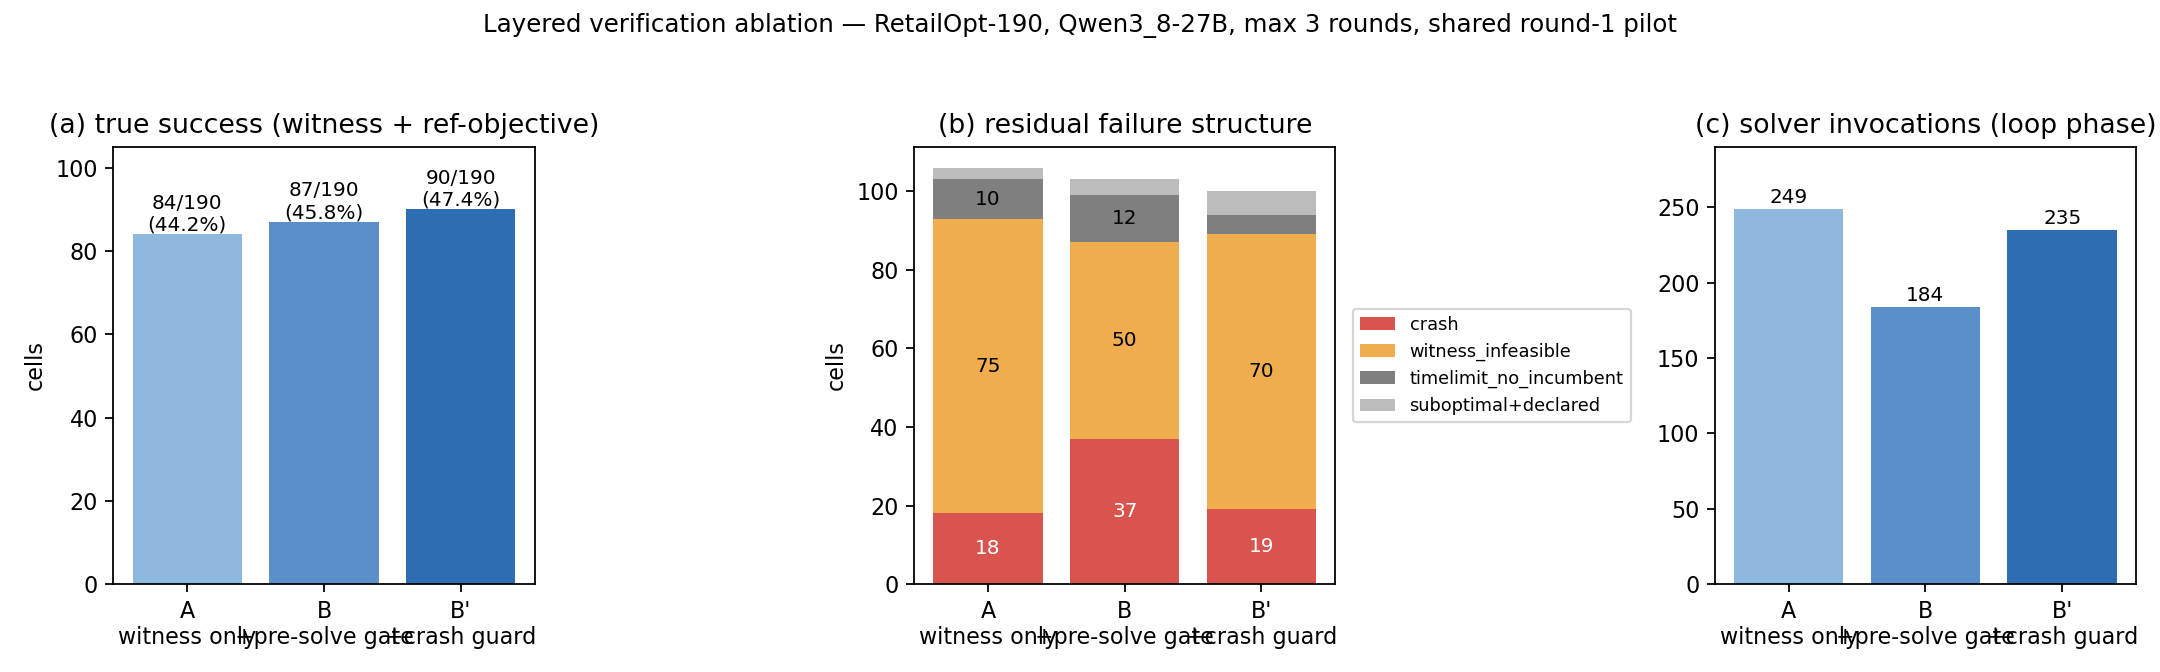
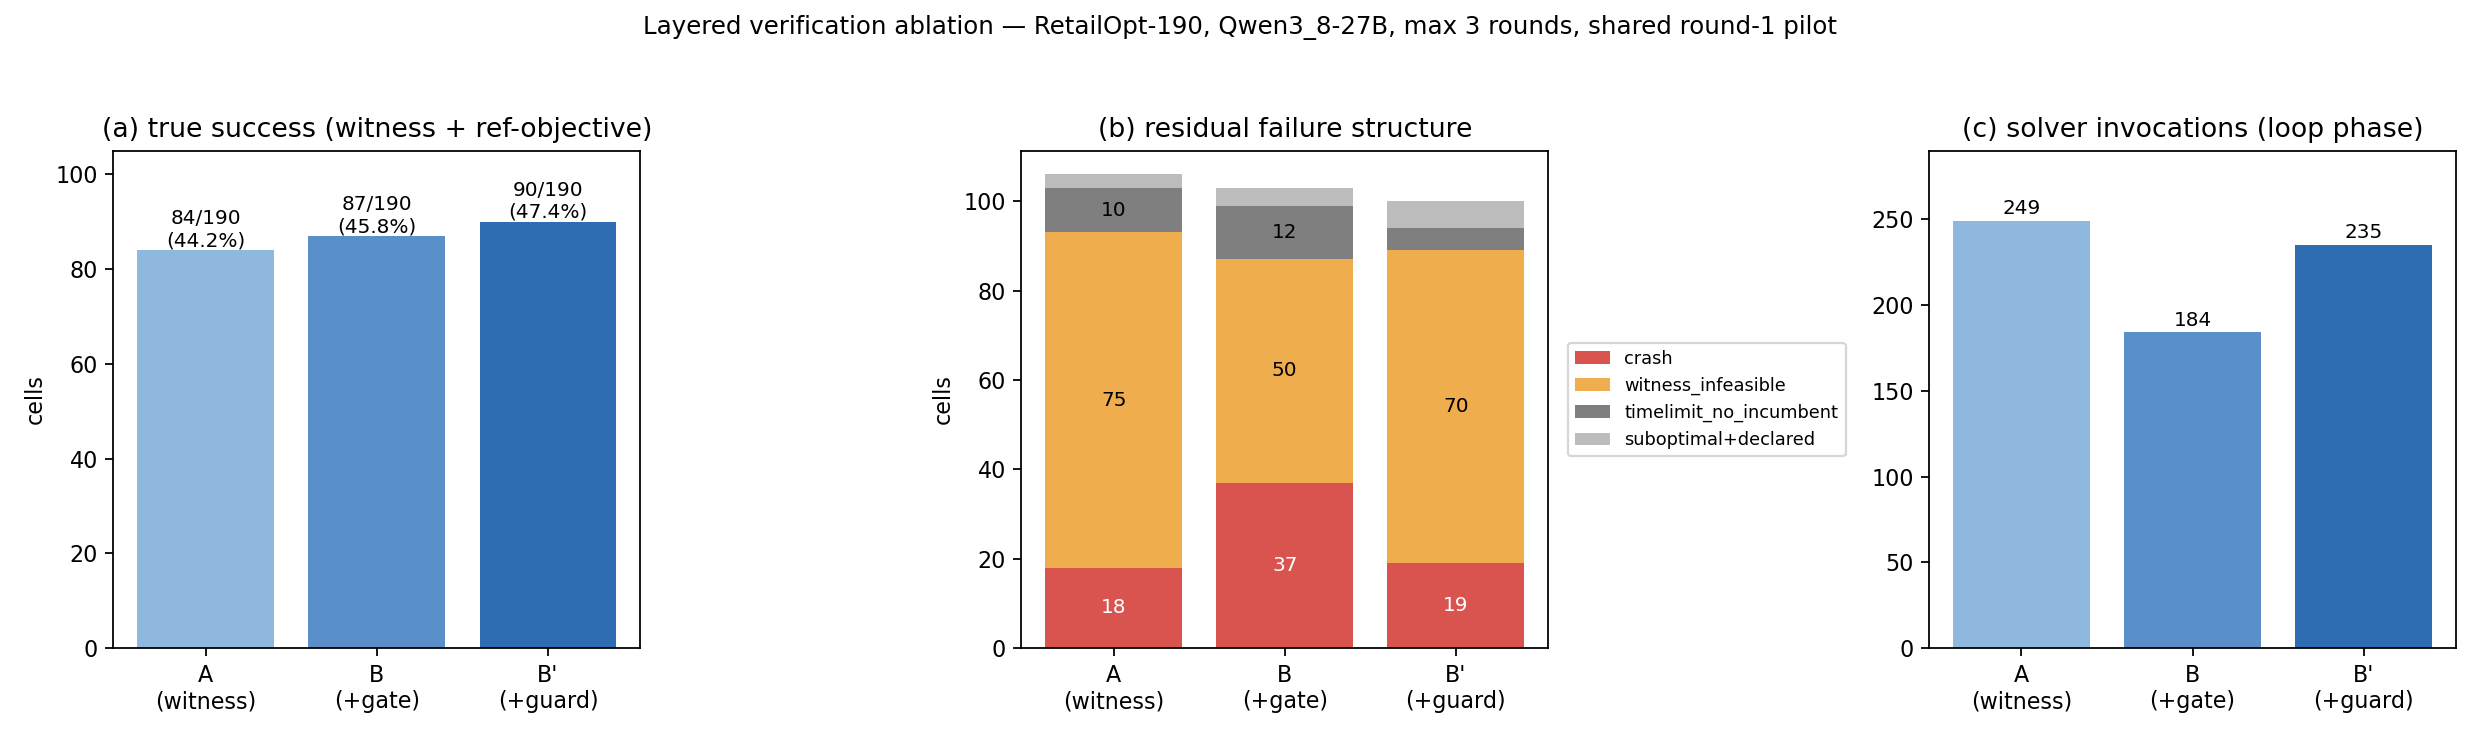
ablation fig: widen canvas, shorten arm labels to fix crowding

diff --git a/scripts/make_layered_ablation_fig.py b/scripts/make_layered_ablation_fig.py
@@ -11,7 +11,7 @@ matplotlib.use("Agg")
 import matplotlib.pyplot as plt
 import numpy as np
 
-ARMS = ["A\nwitness only", "B\n+pre-solve gate", "B'\n+crash guard"]
+ARMS = ["A\n(witness)", "B\n(+gate)", "B'\n(+guard)"]
 SUCCESS = [84, 87, 90]
 RESIDUAL = {
     "crash": [18, 37, 19],
@@ -21,7 +21,7 @@ RESIDUAL = {
 }
 SOLVES = [249, 184, 235]
 
-fig, axes = plt.subplots(1, 3, figsize=(13.5, 4.2))
+fig, axes = plt.subplots(1, 3, figsize=(15.5, 4.6))
 
 # (a) true success
 ax = axes[0]
